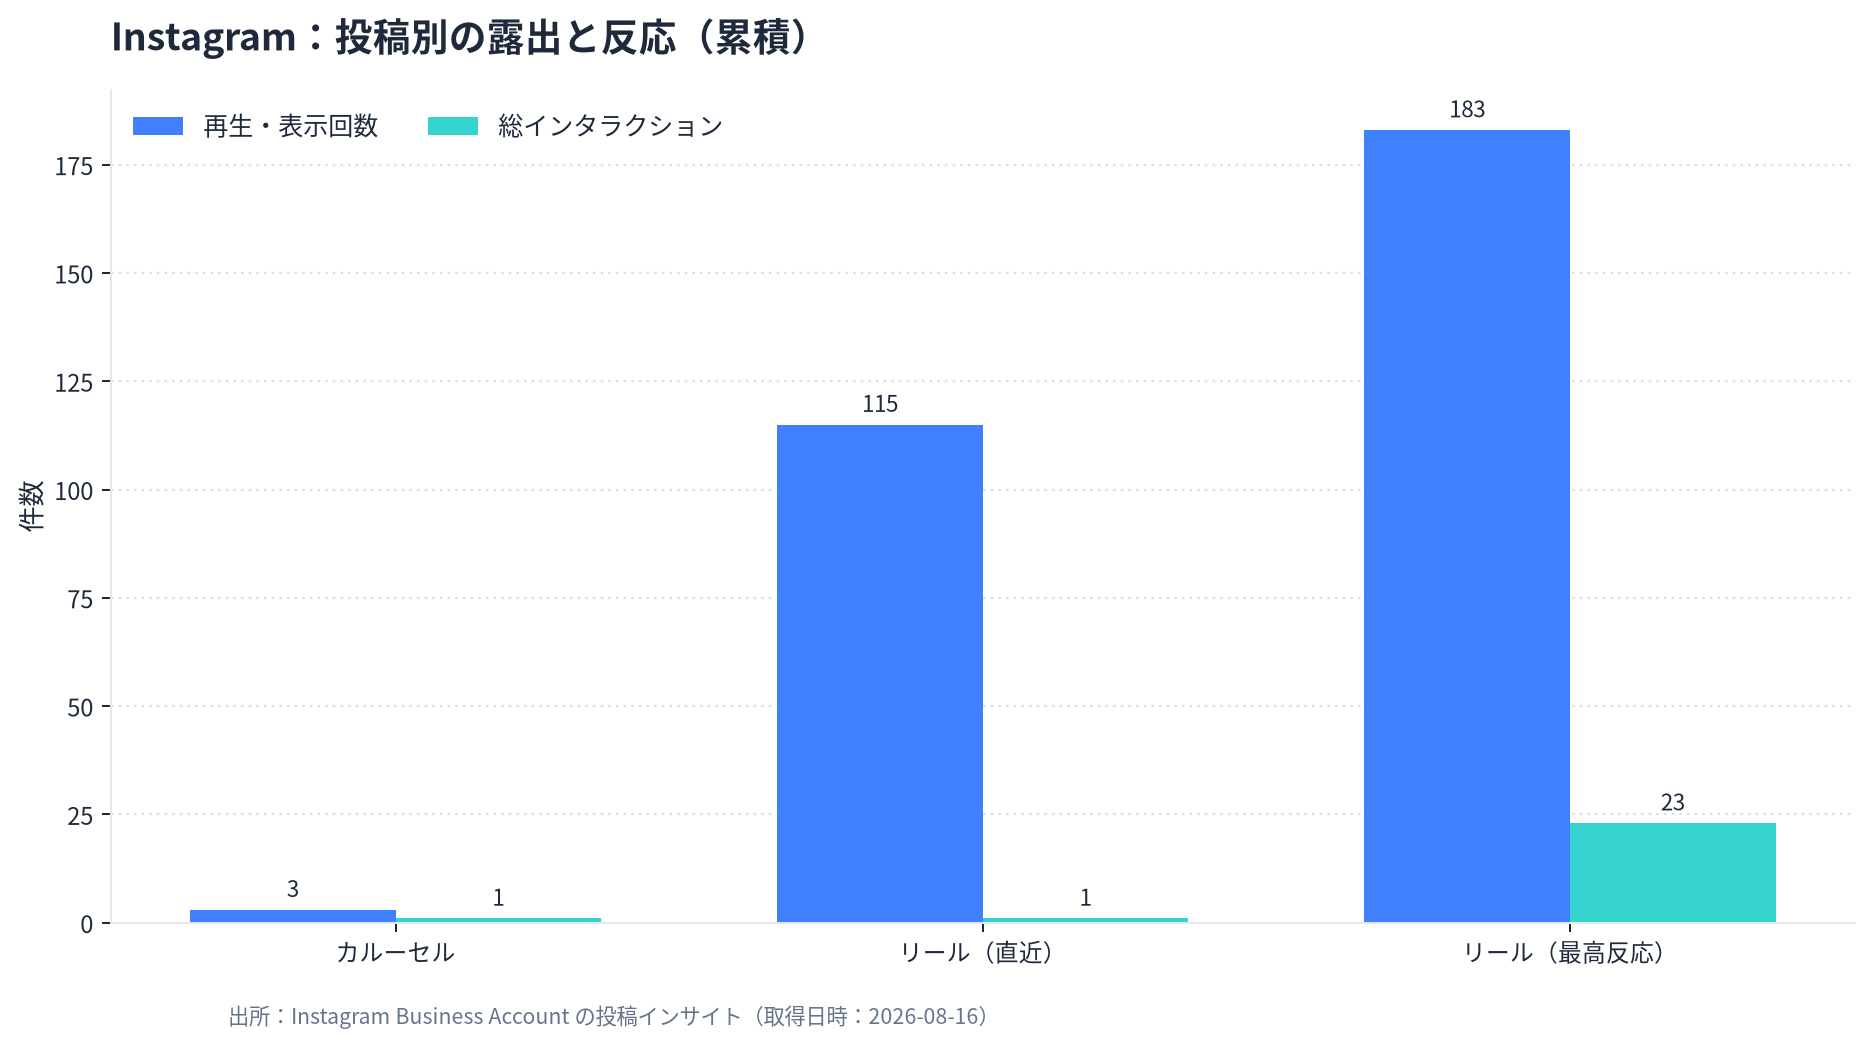
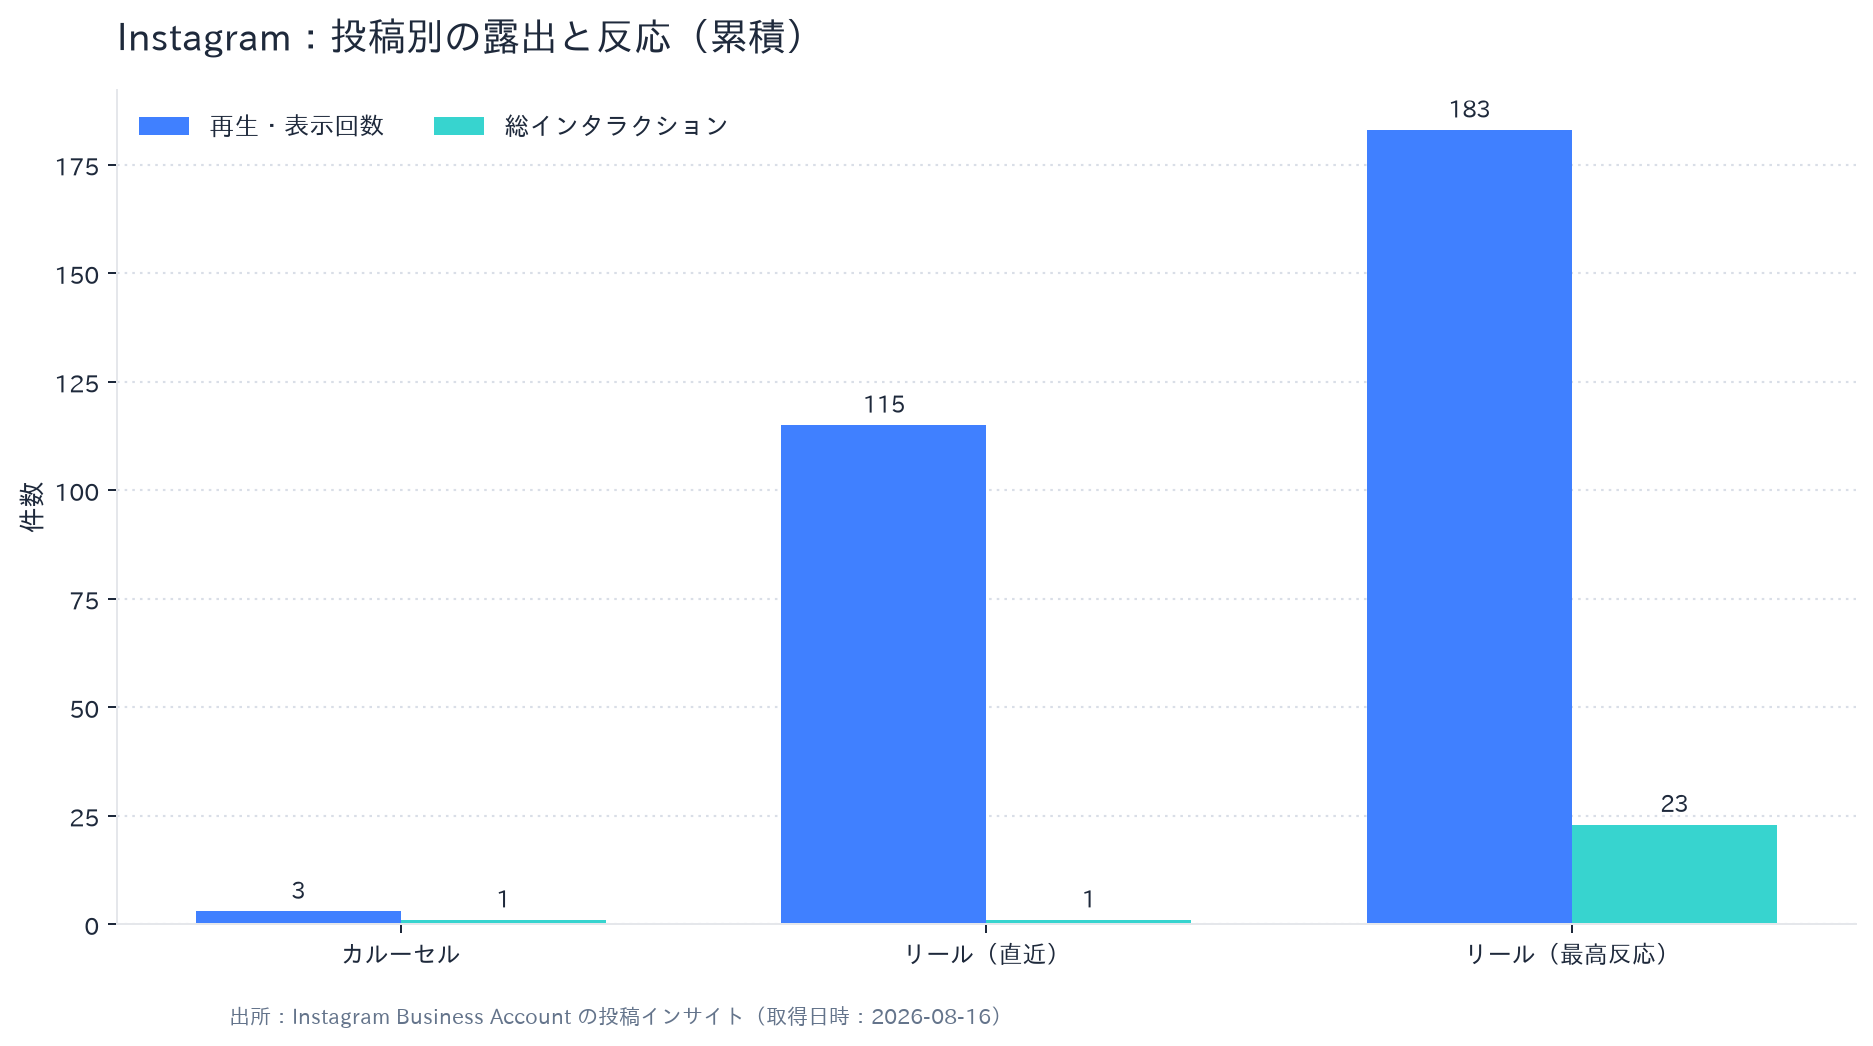
fix: use packaged Japanese font for social charts

diff --git a/automation/social_analytics/scripts/generate_report.py b/automation/social_analytics/scripts/generate_report.py
@@ -15,6 +15,7 @@ from typing import Any
 import matplotlib as mpl
 import matplotlib.pyplot as plt
 import numpy as np
+import japanize_matplotlib  # Registers IPAexGothic for reliable Japanese rendering on GitHub runners.
 
 ROOT = Path(__file__).resolve().parents[1]
 DATA_DIR = ROOT / "data"
@@ -39,8 +40,8 @@ def configure_style() -> None:
     mpl.rcdefaults()
     mpl.rcParams.update(
         {
-            "font.family": "Noto Sans CJK JP",
-            "font.sans-serif": ["Noto Sans CJK JP", "Noto Sans CJK", "DejaVu Sans"],
+            "font.family": "IPAexGothic",
+            "font.sans-serif": ["IPAexGothic", "Noto Sans CJK JP", "Noto Sans CJK", "DejaVu Sans"],
             "axes.unicode_minus": False,
             "figure.facecolor": "white",
             "axes.facecolor": "white",

diff --git a/docs/social_analytics/chart_qc_notes.md b/docs/social_analytics/chart_qc_notes.md
@@ -15,3 +15,10 @@ CJK font: `Noto Sans CJK JP`。
 |---|---|
 | `automation/social_analytics/reports/charts/youtube_top10_public_views.png` | タイトルを「取得済み動画の視聴上位10本」へ更新。YouTube Data APIまたは公開チャンネル取得データを出所として明示し、日本語・数値とも正常に描画。 |
 | `automation/social_analytics/reports/charts/youtube_category_public_views.png` | 脚注を「取得済み動画39本をテーマ分類して集計」に更新。以前の30本という不正確な表記を解消し、日本語・数値とも正常に描画。 |
+
+## Python配布フォントによる最終確認
+
+| ファイル | 最終確認結果 |
+|---|---|
+| `automation/social_analytics/reports/charts/instagram_post_performance.png` | IPAexGothicによる日本語ラベル、凡例、軸名、注記が正常に描画。白背景、薄灰色の点線グリッド、指定の青・ティール配色を維持。 |
+| `automation/social_analytics/reports/charts/youtube_category_public_views.png` | IPAexGothicによる日本語タイトル、軸名、脚注が正常に描画。取得済み39本の集計注記、白背景、薄灰色の点線グリッド、指定配色を確認。 |

diff --git a/automation/social_analytics/reports/latest_report.md b/automation/social_analytics/reports/latest_report.md
@@ -1,6 +1,6 @@
 # Social Analytics — Latest Report Index
 
-**Generated:** 2026-08-18 03:24 UTC  
+**Generated:** 2026-08-18 03:35 UTC  
 **Owner:** FieldRiseJapan
 
 ## Report links
